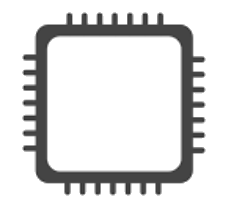
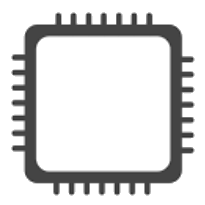
attempted to overlay images on custom border

Changed region(s): [[0.0293, 0.0293, 0.9659, 0.9659]]

diff --git a/index.html b/index.html
@@ -19,7 +19,7 @@
       .navbar {
         margin-bottom: 0;
         border-radius: 0;
-        background-color: #e3f2fd;
+        background-color: #fff;
         color: #fff;
         padding: 1% 0;
         font-size: 1.2em;
@@ -27,6 +27,8 @@
       }
       body {
         font-family: "Oswald", sans-serif !important;
+        background-color: #e3f2fd;
+
       }
       .navbar-brand {
         float: left;
@@ -100,13 +102,22 @@
       #mission-statement {
         font-size: 18px;
       }
-      /* .img__img {
+      .img__img {
         border: 30px solid;
-        padding: 5px;
-        -webkit-border-image: url('img/Frame.png') 30 round;
-        -o-border-image: url('img/Frame.png') 30 round;
-        border-image: url('img/Frame.png') 30 round;
-      } */
+        /* padding: 15px; */
+        /* -webkit-border-image: url('img/Frame.png') 45 round;
+        -o-border-image: url('img/Frame.png') 45 round; */
+        /* border-image: url('img/Frame.png') 30 30 30 0 stretch; */
+        
+        border-image-source: url('img/Frame.png');
+        border-image-outset: 0;
+        border-image-slice: fill;
+        border-image-width:auto;    
+        border-image-repeat: stretch;
+
+        /* box-sizing: inherit; */
+        /* border-image-outset: 1; */
+      }
       /* .img__img {
         transform: rotate(90deg);
         -ms-transform: rotate(90deg); /* IE 9 */
